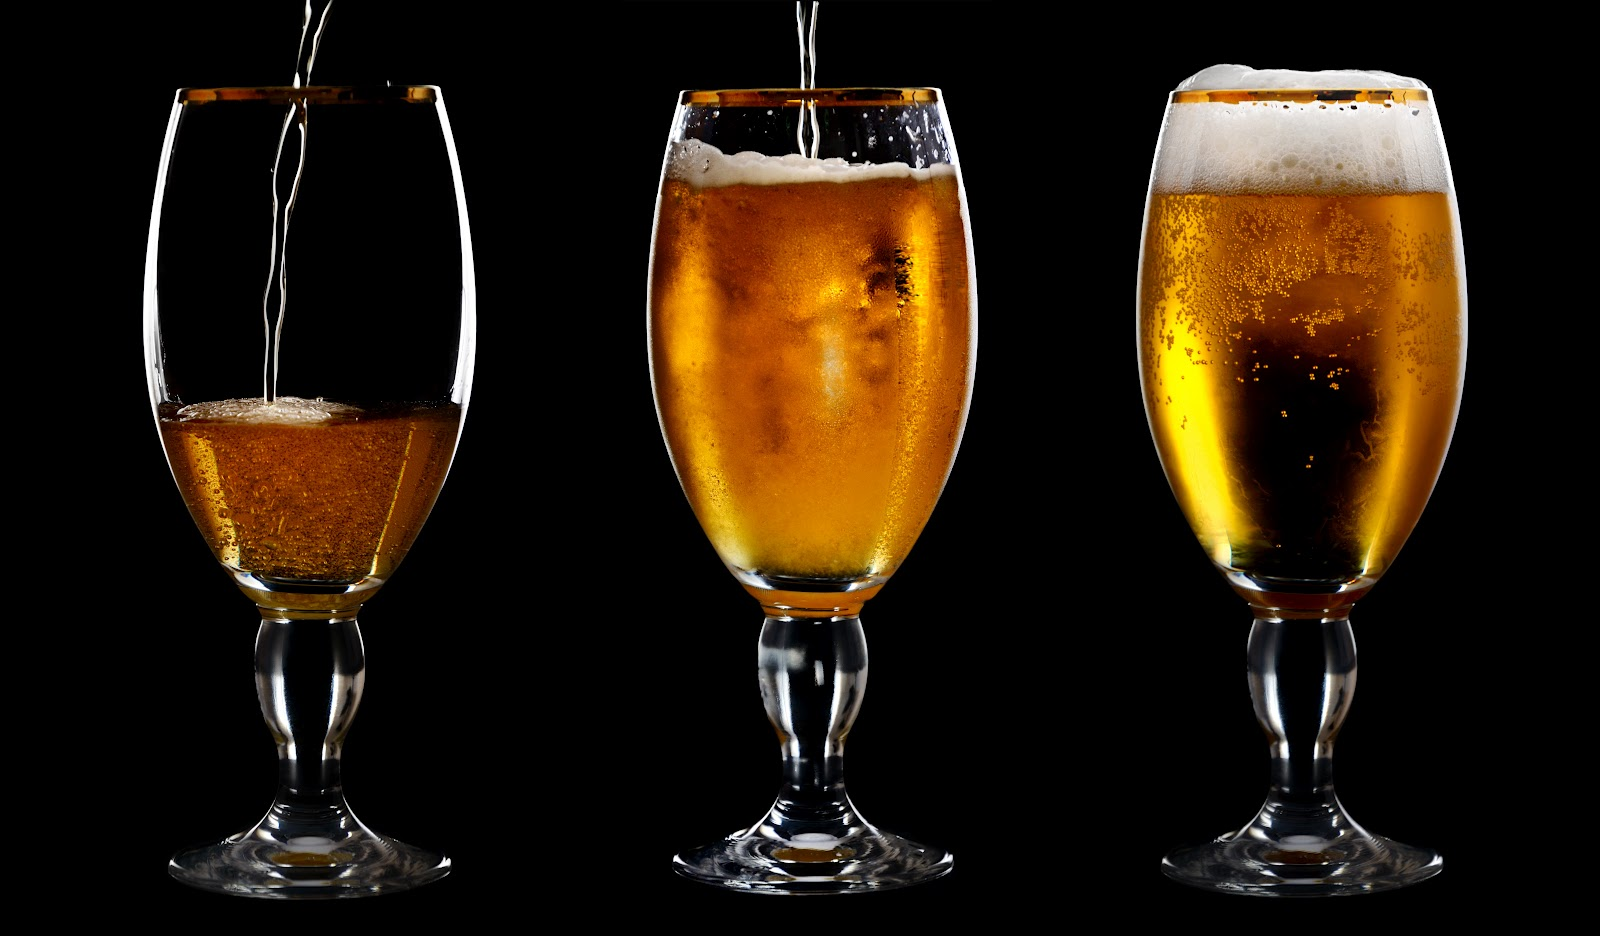
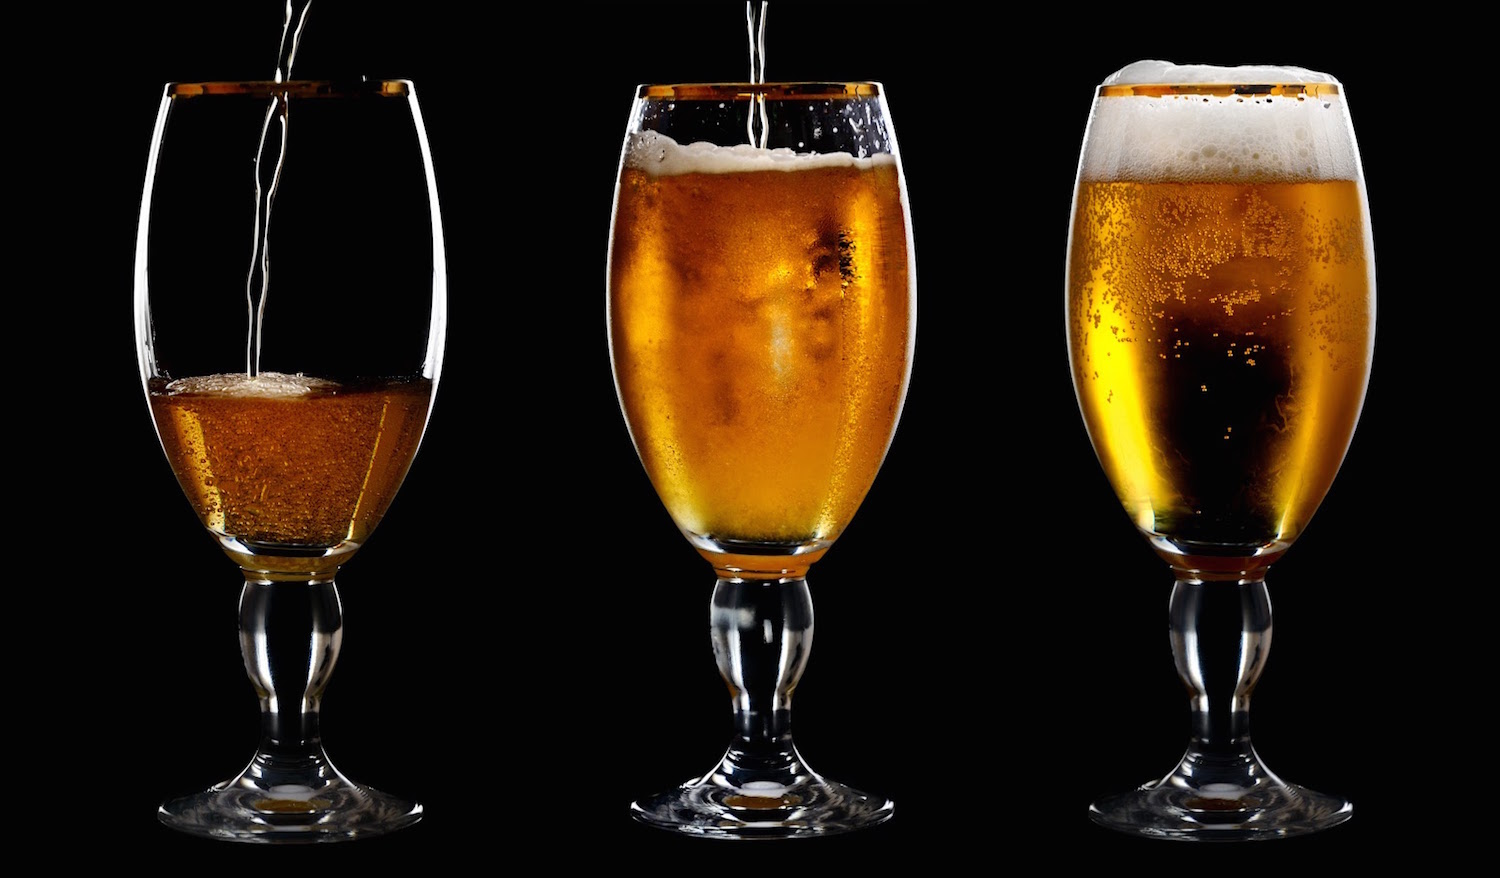
Edited home page

Changed region(s): [[0.4907, 0.0923, 0.5213, 0.123], [0.1533, 0.3998, 0.184, 0.4305]]

diff --git a/fortuna/randBeer/static/css/style.css b/fortuna/randBeer/static/css/style.css
@@ -957,12 +957,12 @@
 /* Banner */
 
 	#banner {
-		background: url("images/overlay.png"), url("../images/banner.jpg");
-		background-position: absolute;
+		background: url("../images/banner.jpg");
+		background-position: center;
 		background-repeat: no-repeat;
-		background-size: auto;
+		background-size: 100%;
 		color: #ffffff;
-		padding: 16em 0em 14em;
+		padding: 14em 0em 12em;
 		text-align: center;
 	}
 

diff --git a/fortuna/randBeer/templates/index.html b/fortuna/randBeer/templates/index.html
@@ -27,7 +27,7 @@
 			</header>
 
 		<!-- Banner -->
-			<section id="banner">
+			<section id="banner" style="width: auto" style="height: auto">
 				<h2>Fortuna Beer</h2>
 				<p>May the odds be ever in your favor</p>
 				<ul class="actions">
